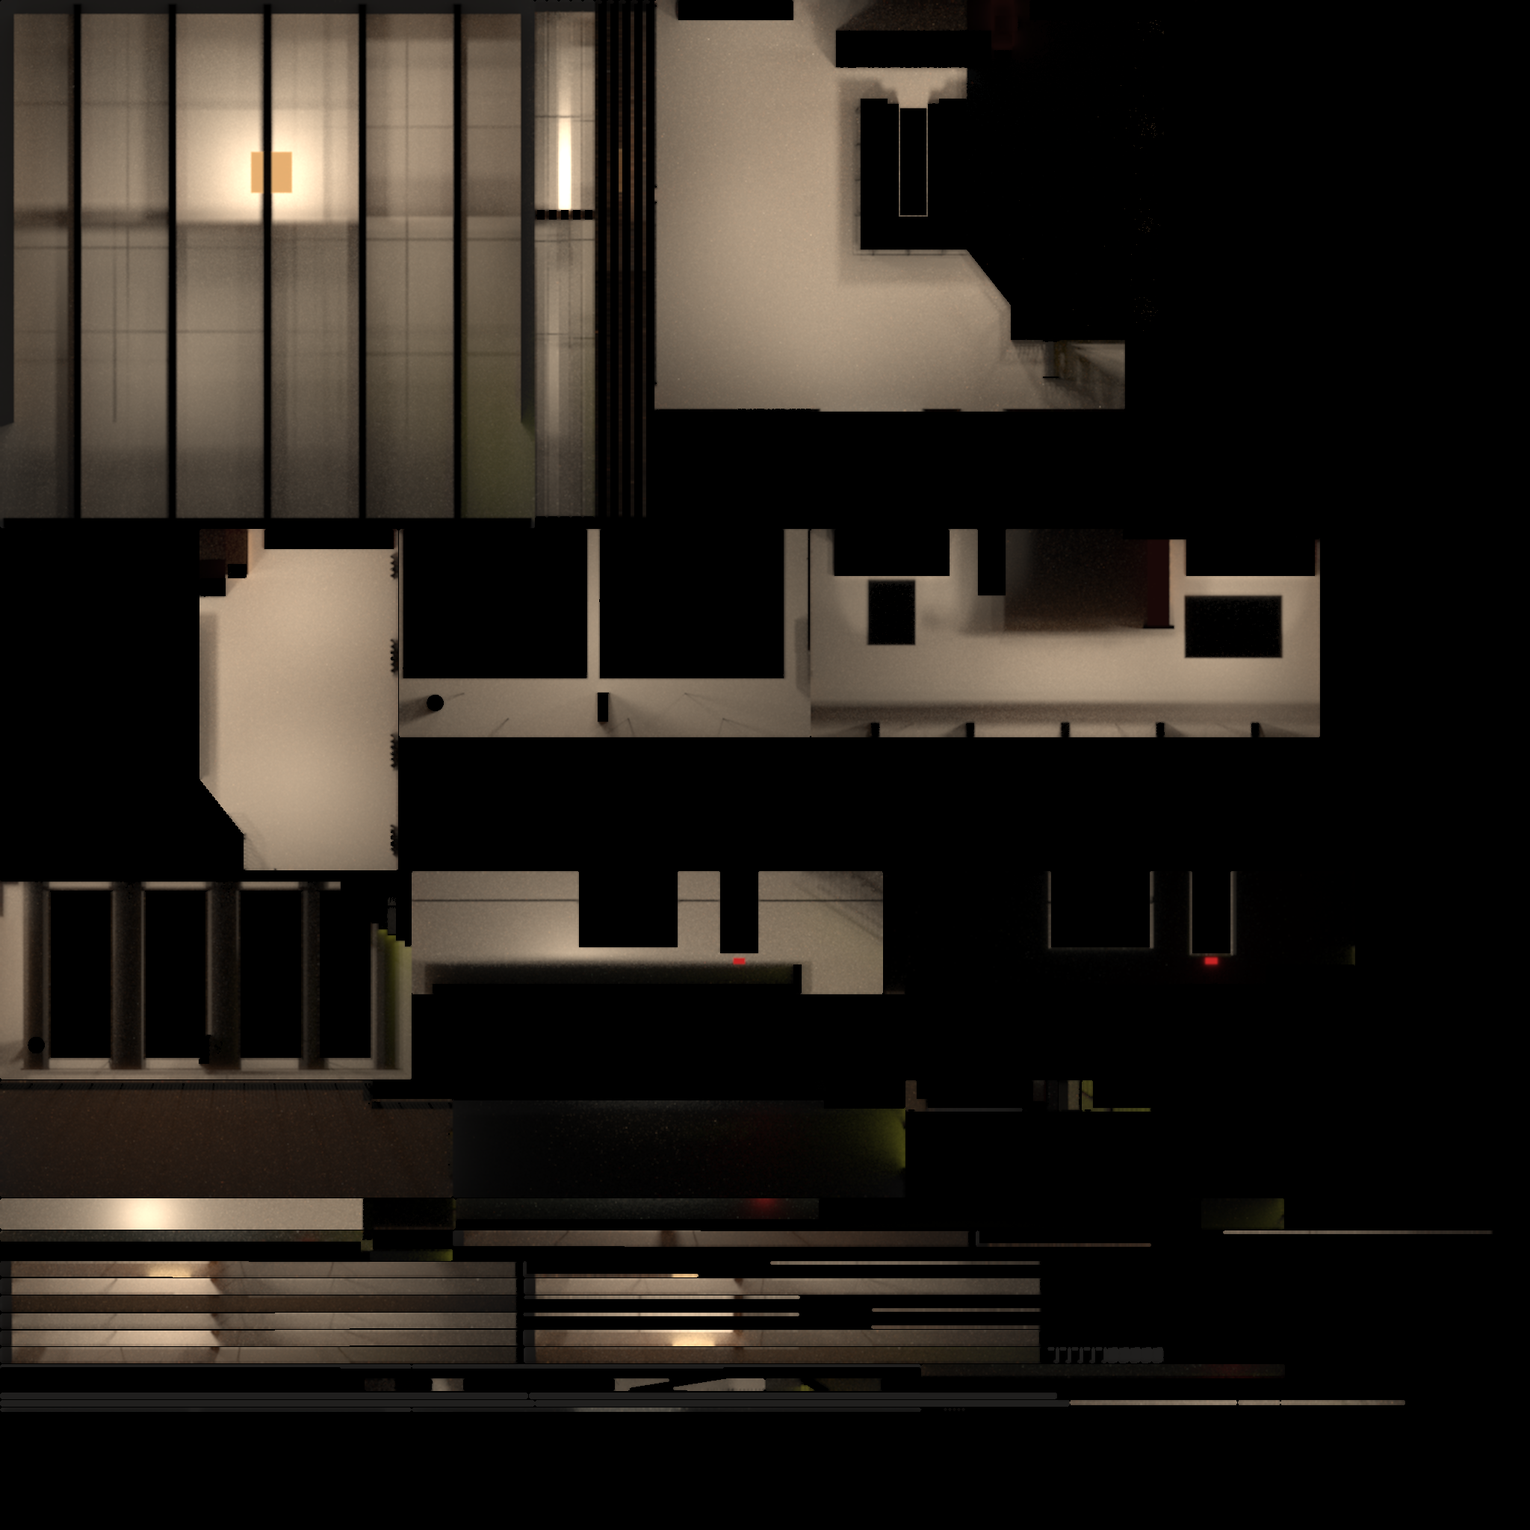
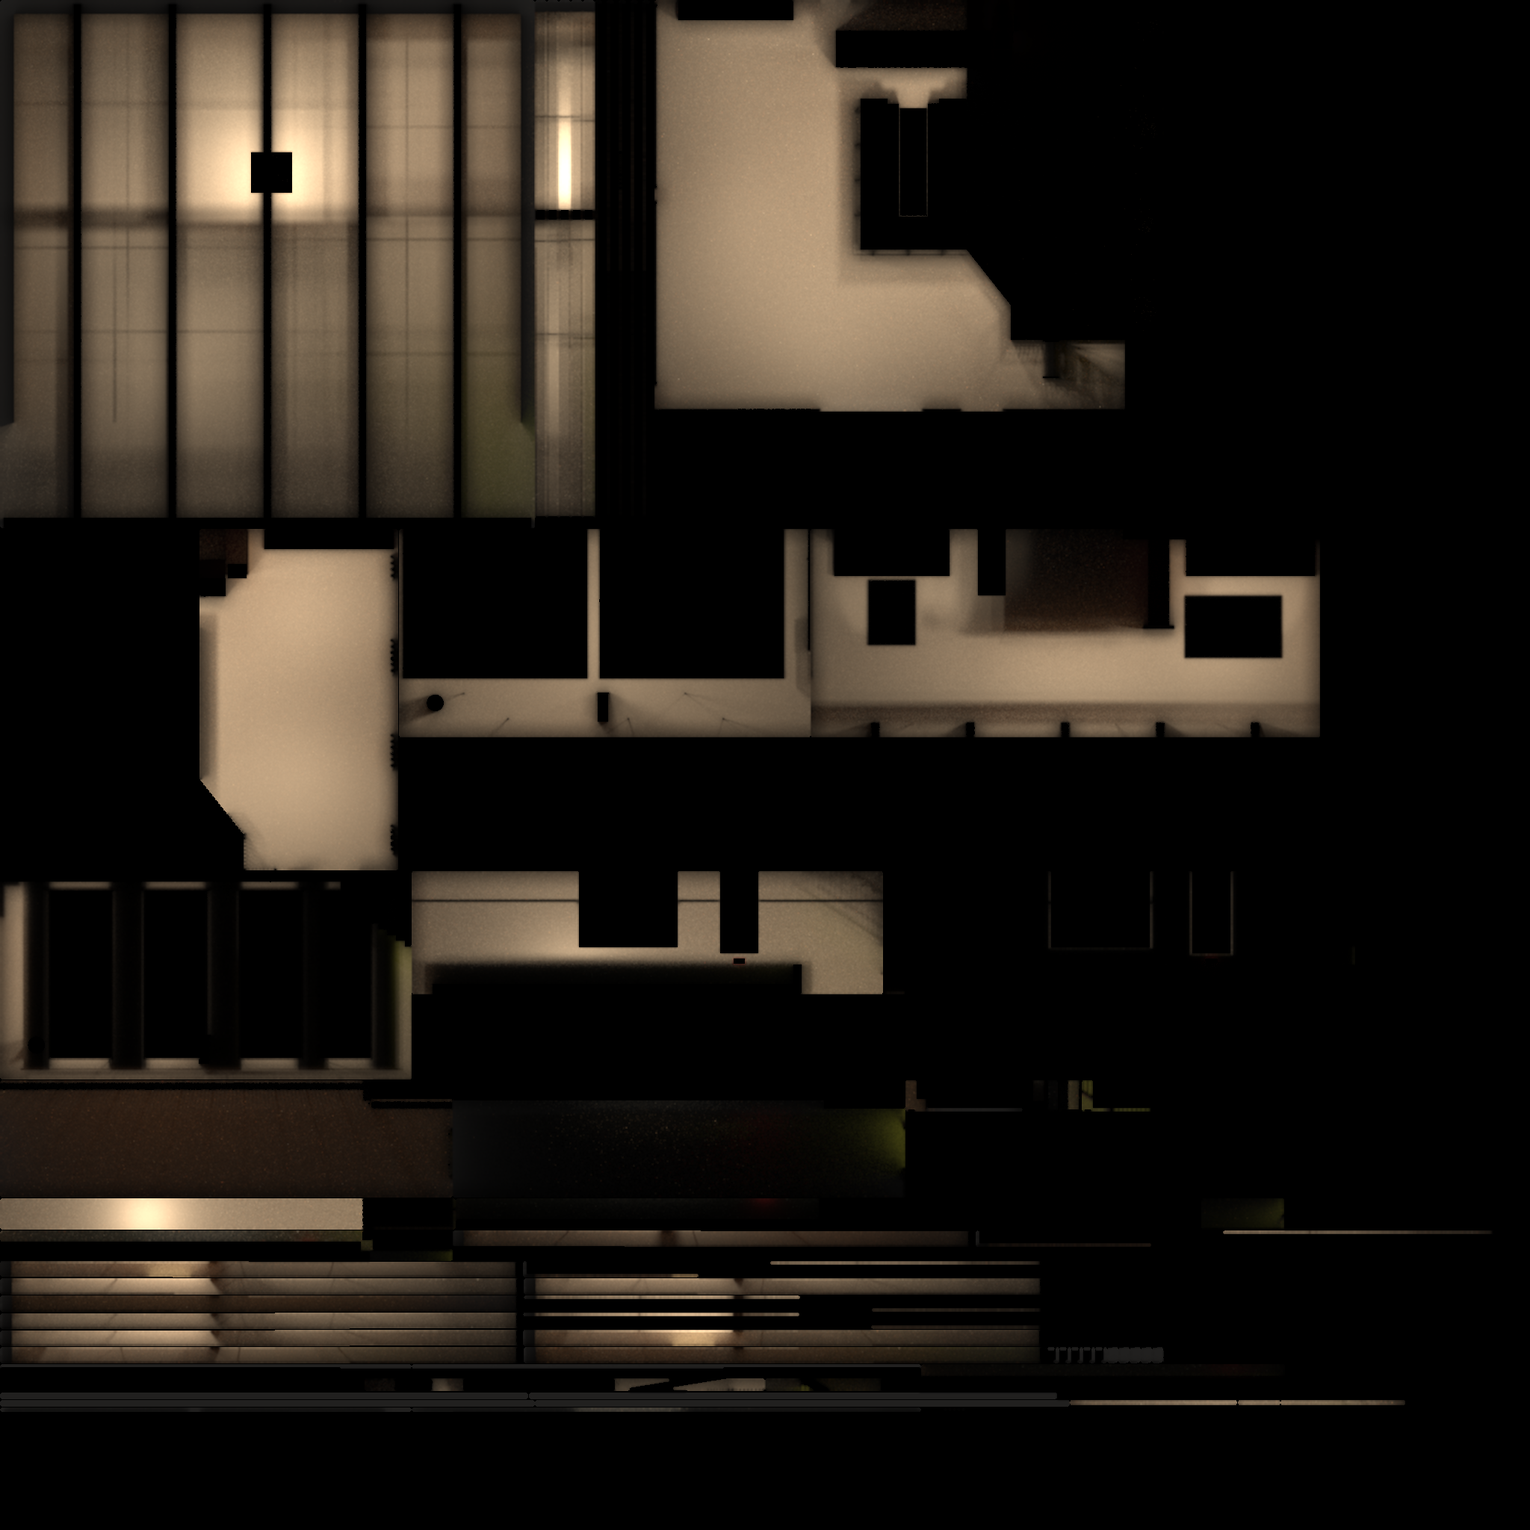
V2b: baked contact occlusion and a warmer, darker evening, from the owner's second review (LGT-01, LGT-03)
- The bake adds Cycles ambient occlusion within 60 cm (ao^1.5) to the light maps: walls meeting
  floor and ceiling, corners, the floor at the feet of the bar, back bar, banquettes and stair,
  the raised floor's edges; on every tier.
- The bar, back bar, counter, banquettes, stair and rails darken over their lowest 35 cm, which
  the bake does not cover.
- Evening: the venue's lights at about 2400 K, a more amber brick tint and live light, exposure
  0.16 (R06, R08).

Claude-Session: https://claude.ai/code/session_011uuG6S5B44UFQf4qRyq7GE

diff --git a/src/scene/materials.ts b/src/scene/materials.ts
@@ -72,6 +72,43 @@ function prep(t: THREE.Texture, colour: boolean) {
   return t;
 }
 
+/** Fixed furniture darkens over this height above the floor, to `GROUND_MIN` of its colour at it. */
+const GROUND_REACH = 0.35;
+const GROUND_MIN = 0.5;
+
+/**
+ * Contact darkening for the bar, back bar, counter, banquettes, stair and rails, which the room's
+ * baked occlusion does not cover (owner 2026-10-19): the surface darkens toward the floor, as
+ * ambient occlusion would, on every tier. Keeps any shader change the material already has.
+ */
+function grounded<T extends THREE.MeshStandardMaterial>(mat: T): T {
+  const prev = mat.onBeforeCompile.bind(mat);
+  const key = mat.customProgramCacheKey();
+  mat.customProgramCacheKey = () => `${key}|ground`;
+  mat.onBeforeCompile = (s, r) => {
+    prev(s, r);
+    s.vertexShader = s.vertexShader
+      .replace("#include <common>", "#include <common>\nvarying float vGroundY;")
+      .replace(
+        "#include <project_vertex>",
+        `#include <project_vertex>
+vec4 groundAt = vec4(transformed, 1.0);
+#ifdef USE_INSTANCING
+groundAt = instanceMatrix * groundAt;
+#endif
+vGroundY = (modelMatrix * groundAt).y;`,
+      );
+    s.fragmentShader = s.fragmentShader
+      .replace("#include <common>", "#include <common>\nvarying float vGroundY;")
+      .replace(
+        "#include <color_fragment>",
+        `#include <color_fragment>
+diffuseColor.rgb *= mix(${GROUND_MIN.toFixed(2)}, 1.0, smoothstep(0.0, ${GROUND_REACH.toFixed(2)}, vGroundY));`,
+      );
+  };
+  return mat;
+}
+
 /**
  * Breaks up a repeating surface by world position (V1): `cell` gives each square of that size (m,
  * on the floor plane) its own tone, the way real tiles differ; otherwise soft patches about `size`
@@ -123,7 +160,7 @@ export const CONTACT_SPREAD = 1.6;
  * The buff brick's tint by day and in the evening (V2b): under the venue's warm light at night it
  * reads orange-brown in R06 and R08, not pale beige.
  */
-export const BRICK_TINT = { day: "#f4ebdd", evening: "#efd2b4" } as const;
+export const BRICK_TINT = { day: "#f4ebdd", evening: "#f2c49a" } as const;
 
 /** The plinth's shadow plane is this many times its size (`softShadowTexture`). */
 export const SHADOW_SPREAD = 1.25;
@@ -197,11 +234,11 @@ export function useMaterials(quality: Quality) {
       }),
       // Honey pine deck with darker beams (R02).
       ceiling: std({ map: tex.ceilingDiff, normalMap: tex.ceilingNor, color: "#f6e6c2", roughness: 0.85 }),
-      timber: std({ map: tex.timberDiff, color: "#b5874f", roughness: 0.8 }),
+      timber: grounded(std({ map: tex.timberDiff, color: "#b5874f", roughness: 0.8 })),
       // The same timber on the ceiling beams and the raised floor's sides, which carry the baked
       // light (V2), kept apart from the stair's live-lit timber.
       beam: std({ map: tex.timberDiff, color: "#b5874f", roughness: 0.8 }),
-      steel: std({ color: "#1c1e1f", metalness: 0.55, roughness: 0.55 }),
+      steel: grounded(std({ color: "#1c1e1f", metalness: 0.55, roughness: 0.55 })),
       girder: std({ map: rivetTexture(), color: "#ffffff", metalness: 0.55, roughness: 0.55 }),
       // The model's presentation (REFERENCE_NOTES §1, Presented): light wall caps and plinth, and
       // the room's soft shadow on the backdrop.
@@ -224,8 +261,8 @@ export function useMaterials(quality: Quality) {
         depthWrite: false,
       }),
       marble: std({ map: marble, roughness: 0.3, metalness: 0 }),
-      barBase: std({ color: "#18191a", roughness: 0.55, metalness: 0.2 }),
-      backBarWood: std({ color: "#3a2b21", roughness: 0.6 }),
+      barBase: grounded(std({ color: "#18191a", roughness: 0.55, metalness: 0.2 })),
+      backBarWood: grounded(std({ color: "#3a2b21", roughness: 0.6 })),
       // Backlit bottle shelves read bright in every bar photo (R02, R03, UV01).
       shelfGlow: std({ color: "#3a2a18", emissive: "#ffb46b", emissiveIntensity: 3, roughness: 0.5 }),
       fridge: std({ color: "#c9d7cf", emissive: "#e8f2ea", emissiveIntensity: 0.35, roughness: 0.2 }),
@@ -233,7 +270,7 @@ export function useMaterials(quality: Quality) {
       windowFrame: std({ color: "#e4e1d9", roughness: 0.6 }),
       // Lit kitchen seen through the pass: bright, but under the room's highlights (UV02).
       kitchen: std({ color: "#c9cfcc", emissive: "#e9ede6", emissiveIntensity: 0.22, roughness: 0.3 }),
-      blackMetal: std({ color: "#121314", metalness: 0.7, roughness: 0.45 }),
+      blackMetal: grounded(std({ color: "#121314", metalness: 0.7, roughness: 0.45 })),
       bulb: std({ color: "#fff3d6", emissive: "#ffcf8a", emissiveIntensity: 1.8, roughness: 0.3 }),
       crystal: new THREE.MeshPhysicalMaterial({
         color: "#fff6e8",
@@ -252,15 +289,17 @@ export function useMaterials(quality: Quality) {
         opacity: 0.16,
         envMapIntensity: 1.5,
       }),
-      velvet: new THREE.MeshPhysicalMaterial({
-        color: "#8a6a3e",
-        roughness: 0.75,
-        sheen: 1,
-        sheenColor: new THREE.Color("#e2c28a"),
-        sheenRoughness: 0.45,
-        side: THREE.DoubleSide,
-      }),
-      leather: std({ map: tuftedTexture("#2a2b2d"), color: "#ffffff", roughness: 0.55 }),
+      velvet: grounded(
+        new THREE.MeshPhysicalMaterial({
+          color: "#8a6a3e",
+          roughness: 0.75,
+          sheen: 1,
+          sheenColor: new THREE.Color("#e2c28a"),
+          sheenRoughness: 0.45,
+          side: THREE.DoubleSide,
+        }),
+      ),
+      leather: grounded(std({ map: tuftedTexture("#2a2b2d"), color: "#ffffff", roughness: 0.55 })),
       // The back bar's card sheet: backlit bottles and glasses, rack, plants, instruments (V3).
       cards: std({
         map: cards.map,
@@ -283,7 +322,7 @@ export function useMaterials(quality: Quality) {
       }),
       // The back bar's canopy, counter and espresso machine: bright stainless, lighter than the
       // black steel (R02, R03). The fridges' dark glass doors are dimly lit inside.
-      stainless: std({ color: "#b9bcbc", metalness: 0.9, roughness: 0.28 }),
+      stainless: grounded(std({ color: "#b9bcbc", metalness: 0.9, roughness: 0.28 })),
       fridgeGlass: std({ color: "#1c2422", emissive: "#9fb5ad", emissiveIntensity: 0.14, roughness: 0.08 }),
       // The bar flowers' white blossom and dark branches (R02, VEN-06).
       blossom: std({ color: "#f3eee6", roughness: 0.85 }),
@@ -304,16 +343,18 @@ export function useMaterials(quality: Quality) {
       // Its glow follows the lighting (set in the scene): off in daylight.
       led: std({ color: "#b8b85a", emissive: "#e2e23a", emissiveIntensity: LED_GLOW, roughness: 0.6 }),
       exitSign: std({ color: "#3a0b0b", emissive: "#ff2a2a", emissiveIntensity: 1.6 }),
-      wineFrame: std({
-        color: "#5c1717",
-        roughness: 0.45,
-        metalness: 0.2,
-        emissive: "#3a0c08",
-        emissiveIntensity: 0.4,
-      }),
+      wineFrame: grounded(
+        std({
+          color: "#5c1717",
+          roughness: 0.45,
+          metalness: 0.2,
+          emissive: "#3a0c08",
+          emissiveIntensity: 0.4,
+        }),
+      ),
       darkVoid: std({ color: "#0e0f10", roughness: 1 }),
       // The closed side under the second flight and the turn landing (owner photo 4).
-      stairWall: std({ color: "#262b28", roughness: 0.9 }),
+      stairWall: grounded(std({ color: "#262b28", roughness: 0.9 })),
       // The mezzanine's underside, which carries the baked light (V2).
       soffit: std({ color: "#262b28", roughness: 0.9 }),
       // The terrace through the garage doors by day: a bright, slightly green-grey backdrop, unlit

diff --git a/src/scene/Studio3D.tsx b/src/scene/Studio3D.tsx
@@ -113,7 +113,7 @@ function Lighting({
   return (
     <>
       {/* Evening warmth kept calm, so white linen reads white or ivory, not beige (V2 colour check). */}
-      <hemisphereLight args={evening ? ["#615a50", "#1f1b16", 0.45] : ["#e9eef2", "#a48d72", 1.25]} />
+      <hemisphereLight args={evening ? ["#6b5438", "#1e1710", 0.4] : ["#e9eef2", "#a48d72", 1.25]} />
       <directionalLight
         // A new tier's shadow size needs a new shadow map.
         key={shadowSize}
@@ -121,7 +121,7 @@ function Lighting({
         // spots, so the bar and tables cast their shadows straight down (R06, R08).
         position={evening ? [W / 2 + 1.5, 14, D / 2 - 1.5] : [-12, 13, D / 2 - 3]}
         intensity={evening ? 1.1 : 2.4}
-        color={evening ? "#ffe8d4" : "#fff4e6"}
+        color={evening ? "#ffdcb5" : "#fff4e6"}
         castShadow={shadowSize > 0}
         // Plan view is flat and high-contrast: no shadows (DESIGN_GUIDE §9).
         shadow-intensity={plan ? 0 : 1}
@@ -144,7 +144,7 @@ function Lighting({
           intensity={(c.kind === "brassCluster" ? 26 : 9) * (evening ? 1 : 0.25)}
           distance={c.kind === "brassCluster" ? 14 : 8}
           decay={1.6}
-          color="#ffe6cf"
+          color="#ffd8aa"
         />
       ))}
       {/* The back bar's glow, under its canopy (R01, R03). */}
@@ -155,9 +155,9 @@ function Lighting({
         decay={1.6}
         color="#ffc98e"
       />
-      <pointLight position={[13.5, 1.6, 6]} intensity={3 * glow} distance={9} decay={1.6} color="#ffe2c4" />
-      <pointLight position={[3.5, 1.6, 6]} intensity={3 * glow} distance={9} decay={1.6} color="#ffe2c4" />
-      <pointLight position={[5.6, 2, 11]} intensity={3 * glow} distance={8} decay={1.6} color="#ffe2c4" />
+      <pointLight position={[13.5, 1.6, 6]} intensity={3 * glow} distance={9} decay={1.6} color="#ffd4a0" />
+      <pointLight position={[3.5, 1.6, 6]} intensity={3 * glow} distance={9} decay={1.6} color="#ffd4a0" />
+      <pointLight position={[5.6, 2, 11]} intensity={3 * glow} distance={8} decay={1.6} color="#ffd4a0" />
       <Environment resolution={128} frames={1}>
         <Lightformer
           form="rect"

diff --git a/src/scene/useBake.ts b/src/scene/useBake.ts
@@ -19,7 +19,7 @@ export type Bake = { atlas: Atlas; materials: Partial<Materials> };
  * Brightness of each set on top of the bake's own scale: the evening and daylight calibration
  * against the reference photos (V2).
  */
-const EXPOSURE: Record<(typeof BAKE_SETS)[number], number> = { evening: 0.19, day: 3.4 };
+const EXPOSURE: Record<(typeof BAKE_SETS)[number], number> = { evening: 0.16, day: 3.4 };
 
 /**
  * Plan view is flat (DESIGN_GUIDE §9): an even light map in place of the bake, still bound, so

diff --git a/tools/blender/bake_room.py b/tools/blender/bake_room.py
@@ -1,4 +1,4 @@
-"""Bake the fixed room's light (direct + bounced) into its light map (visual stage V2, ADR-2).
+"""Bake the fixed room's light (direct + bounced, with contact occlusion) into its light map (V2, ADR-2).
 
 Usage: python bake_room.py <room.glb> <venue_geometry.json> <out.f32> <size> <samples> <evening|day>
 
@@ -44,8 +44,8 @@ room = bpy.context.active_object
 lightmap_uv = room.data.uv_layers[1].name
 print("receivers joined", len(room.data.polygons), "faces;", round(time.time() - t0), "s")
 
-# About 2700 K: the venue at night is amber, not neutral (R06, R08; V2b).
-warm = (1.0, 0.78, 0.55)
+# About 2400 K: the venue at night is amber, not neutral (R06, R08; owner 2026-10-19).
+warm = (1.0, 0.72, 0.44)
 
 
 def add_light(name, kind, loc, watts, color=warm, radius=0.2, target=None, angle=None, blend=0.6):
@@ -97,7 +97,7 @@ if MODE == "evening":
         add_light("uplight", "SPOT", B(W - 0.25, 0.15, z), 200, target=B(W, 2.5, z), angle=36, blend=0.7)
     bb = V["backBar"]["rect"]["value"]
     # The lit back bar, brighter than the brick (R01 R03 R08): a soft source facing its shelves.
-    back = add_light("backbar", "AREA", B((bb[0] + bb[2]) / 2, 2.0, bb[3] + 0.15), 420, color=(1.0, 0.8, 0.58))
+    back = add_light("backbar", "AREA", B((bb[0] + bb[2]) / 2, 2.0, bb[3] + 0.15), 420, color=(1.0, 0.76, 0.5))
     back.shape = "RECTANGLE"
     back.size, back.size_y = bb[2] - bb[0], 1.6
     bpy.data.objects["backbar"].rotation_euler = (math.radians(90), 0, 0)
@@ -125,9 +125,23 @@ room.select_set(True)
 bpy.context.view_layer.objects.active = room
 bpy.ops.object.bake(type="DIFFUSE", pass_filter={"DIRECT", "INDIRECT"}, uv_layer=lightmap_uv, margin=2)
 print("baked", MODE, round(time.time() - t0), "s")
+px = np.array(img.pixels[:], dtype=np.float32).reshape(SIZE, SIZE, 4)[:, :, :3]
+
+# Contact darkening the light alone leaves too faint at this texel size (owner 2026-10-19): ambient
+# occlusion within AO_REACH, sharpened by AO_POWER, where walls meet the floor and the ceiling, in
+# corners, at the feet of the bar, back bar, banquettes and stair, and along the raised floor.
+AO_REACH, AO_POWER = 0.6, 1.5
+sc.world.light_settings.distance = AO_REACH
+sc.cycles.samples = 64
+ao_img = bpy.data.images.new("ao", SIZE, SIZE, alpha=False, float_buffer=True)
+for slot in room.material_slots:
+    slot.material.node_tree.nodes.active.image = ao_img
+bpy.ops.object.bake(type="AO", uv_layer=lightmap_uv, margin=2)
+ao = np.array(ao_img.pixels[:], dtype=np.float32).reshape(SIZE, SIZE, 4)[:, :, :1]
+px *= ao**AO_POWER
+print("ambient occlusion", round(time.time() - t0), "s")
 
 # Denoise lightly: a masked blur that never mixes in empty texels (another island, or none).
-px = np.array(img.pixels[:], dtype=np.float32).reshape(SIZE, SIZE, 4)[:, :, :3]
 mask = (px.sum(axis=2) > 0).astype(np.float32)[:, :, None]
 acc = np.zeros_like(px)
 weight = np.zeros_like(mask)

diff --git a/docs/ARCHITECTURE.md b/docs/ARCHITECTURE.md
@@ -133,7 +133,7 @@ The inspector builds its controls from `options`, and library captions from the 
 ## 5. Rendering
 
 - **Venue shell:** generated meshes from venue data; PBR materials with tiling textures (CC0, provenance in `public/assets/LICENSES.md`) or procedural textures.
-- **Lighting (ADR-2):** hybrid (visual stage V2). The fixed room's large surfaces (walls, floors, ceiling, mezzanine edge: `scene/venue/bake.ts`) carry baked light maps, evening and daylight, made in Blender by `npm run bake` (`tools/README.md`). Their light-map UVs are computed in the app (`scene/venue/lightmap.ts`: flat islands packed at one density), the same at export and at load, so the dollhouse's cut walls reuse the full walls' bake and nothing but the maps ships. The manifest (`data/bake/manifest.json`, passed in by `app/boot.ts`) holds fingerprints of the room's surfaces and light inputs; on a mismatch the room is drawn live-lit, and CI fails (`[LGT-03]`). Baked materials take their diffuse light mostly from the map, with a share of the live lights' (so live shadows and placed lights show on the floor and walls) and a little of the sky's, and keep live highlights and reflections; everything movable, and every placed light, stays live, with soft contact shadows under the bar, back counter, tables, chairs and standing guests. Evening: about 2400 K light in the bake, a warm tint on the buff brick, hemisphere + a few shadow-free fill lights, one shadow-casting key light from nearly overhead, emissive chandeliers/back bar/candles with selective bloom, N8AO ambient occlusion, ACES filmic tone mapping. Daylight: soft sky + key light.
+- **Lighting (ADR-2):** hybrid (visual stage V2). The fixed room's large surfaces (walls, floors, ceiling, mezzanine edge: `scene/venue/bake.ts`) carry baked light maps, evening and daylight, made in Blender by `npm run bake` (`tools/README.md`). Their light-map UVs are computed in the app (`scene/venue/lightmap.ts`: flat islands packed at one density), the same at export and at load, so the dollhouse's cut walls reuse the full walls' bake and nothing but the maps ships. The manifest (`data/bake/manifest.json`, passed in by `app/boot.ts`) holds fingerprints of the room's surfaces and light inputs; on a mismatch the room is drawn live-lit, and CI fails (`[LGT-03]`). Baked materials take their diffuse light mostly from the map, with a share of the live lights' (so live shadows and placed lights show on the floor and walls) and a little of the sky's, and keep live highlights and reflections; everything movable, and every placed light, stays live, with soft contact shadows under the bar, back counter, tables, chairs and standing guests. Contact occlusion is baked into the light maps (Cycles ambient occlusion within 60 cm), and the fixed furniture darkens toward the floor in its shader, so corners and feet read on every tier, not only where screen-space ambient occlusion runs. Evening: about 2400 K light in the bake, a warm tint on the buff brick, hemisphere + a few shadow-free fill lights, one shadow-casting key light from nearly overhead, emissive chandeliers/back bar/candles with selective bloom, N8AO ambient occlusion, ACES filmic tone mapping. Daylight: soft sky + key light.
 - **Dollhouse cutaway:** walls whose normal faces the camera switch to a low cut height with a cap mesh; ceiling layer hidden; recomputed on camera move (cheap dot-product test per wall).
 - **Frames on demand (visual stage V0):** the canvas draws only when something changes (`frameloop="demand"`); camera animations, walking and the compare view ask for frames while they move. The one shadow-casting light is fixed, so its shadow map is redrawn only when the room's contents change (plan, drag, guests, cut-away walls), never for a camera move (`scene/frames.tsx`).
 - **No shader compiles after load:** the light set is the same in every view and lighting (unused lights are dimmed to zero, plan view hides its shadow instead of dropping it); parts a view does not show are hidden, not unmounted; lines keep their material when their points change (`scene/items/Line.tsx`); every shader, hidden parts and occasional lines included, is compiled on the second frame for the effects' linear buffer.

diff --git a/VISUAL_STATUS.md b/VISUAL_STATUS.md
@@ -232,6 +232,7 @@ The Balanced still frame on PPL-03 can reach ≈ 155 draw calls (its ambient-occ
 - The evening key light from nearly overhead, so the bar and tables cast their shadows straight down; soft contact shadows under the bar and back counter, in the existing instanced draw.
 - Ambient occlusion stronger and tighter (radius 0.55 m); full resolution and 4× multisampling with High on a desktop, so the setting shows on a still picture.
 - Calibrated after a `fidelity-reviewer` round against R06, R08, R11, R16 and R01–R03: the bake at about 2700 K and a lighter evening brick tint, so the buff brick reads amber and the red dado stays distinct; evening exposure 0.19 with dimmer chandeliers, 25 % live share and a 0.45 hemisphere, for a darker floor; track spots at 220 W, 22°, aimed lower, for separate pools on the north brick; neutral-warm live light and halved fills, so white linen reads white; the street dark through the glass at night; daylight exposure 3.4 with a brighter sky; darker floor joints. The terrace backdrop is bright by day, dark at night (owner, 2026-10-19).
+- Owner's second review (2026-10-19, after V3): the room a bit bright, wanting more of R06/R08's orange-yellow; corners and the feet of the bar, back bar and raised floor too sharp. Ambient occlusion within 60 cm (sharpened, so a junction reads about a third as bright) is baked into the light maps (walls meeting floor and ceiling, corners, the floor at the feet of the fixed furniture, the raised floor's edges), on every tier; the bar, back bar, counter, banquettes, stair and rails darken over their lowest 35 cm (to half their colour at the floor). The evening bake at about 2400 K, a more amber brick tint and live light, evening exposure 0.16.
 - Budget: ppl03 Balanced stays at 149 draw calls (≤ 150).
 - Not done: the ceiling still reads a little red by day (the review suggests a lighter beam colour; left for a later bake).
 
